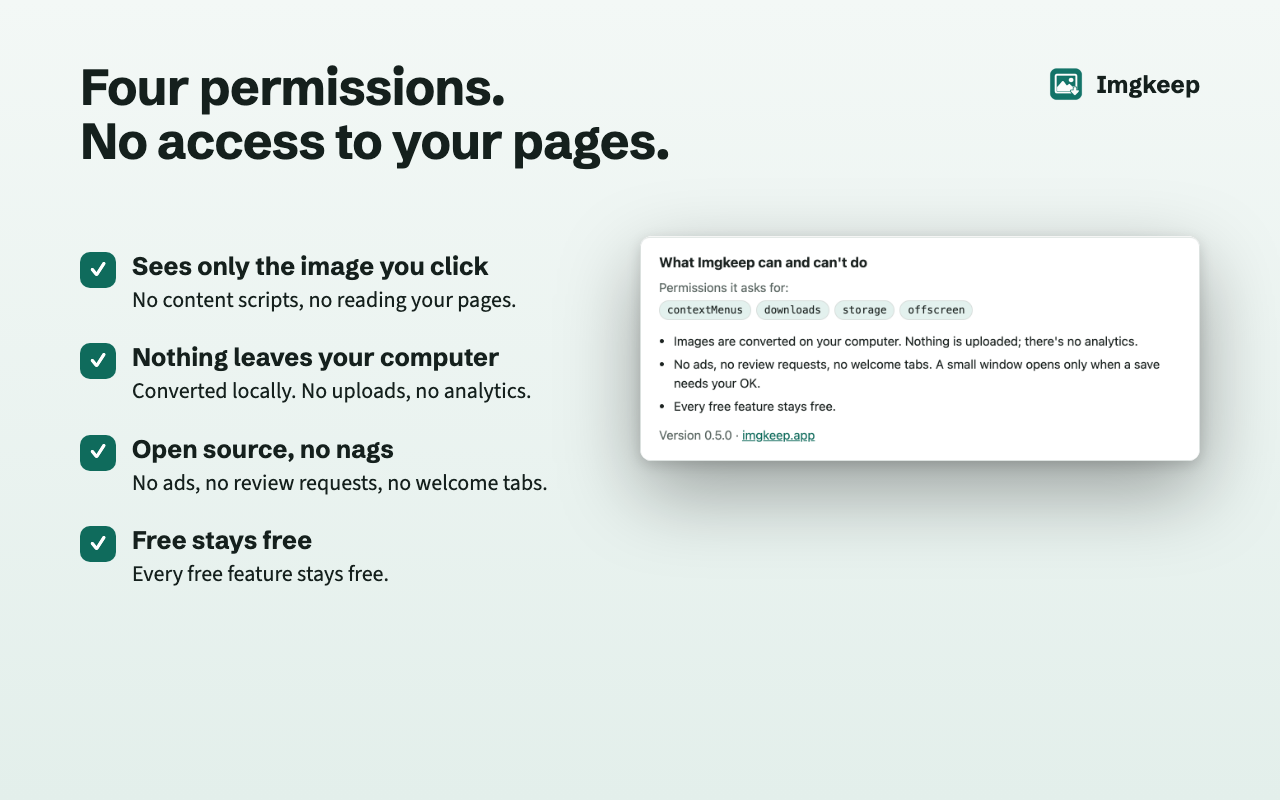
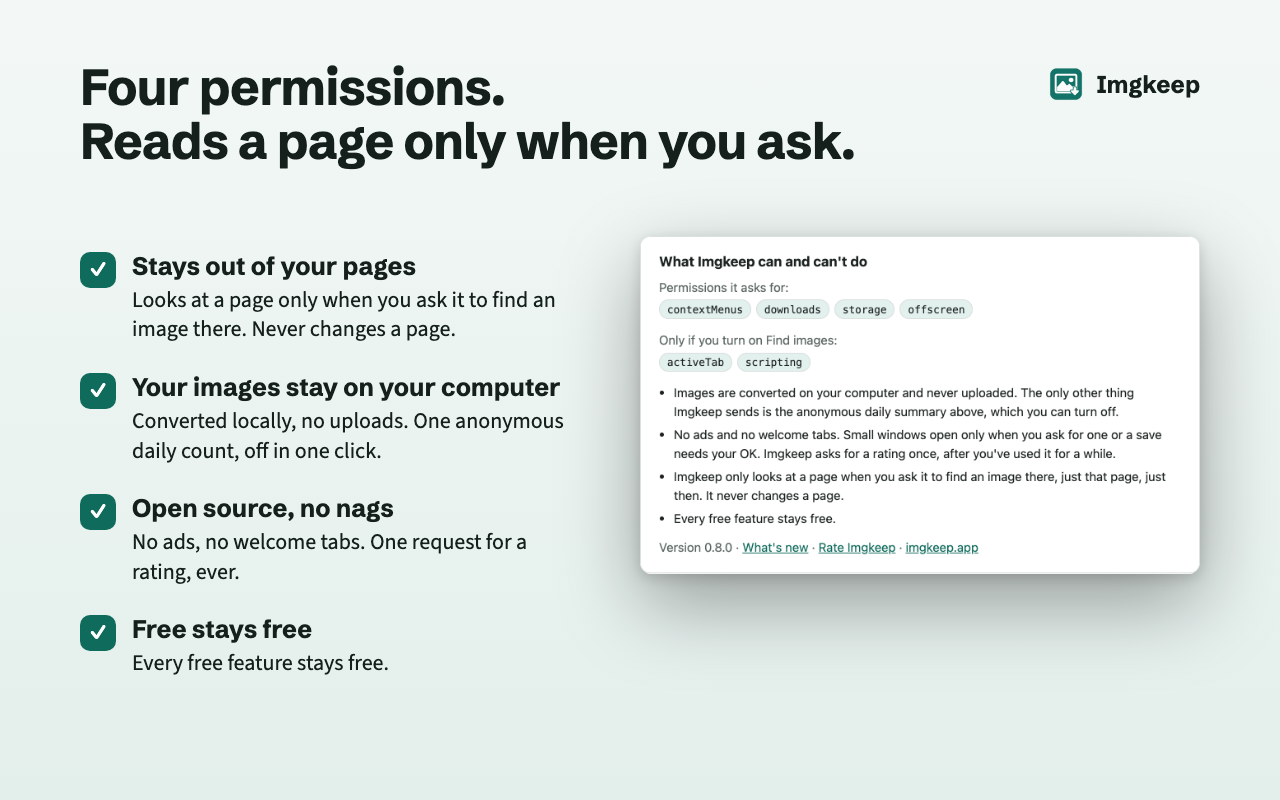
0.8.0 listing: summary and description lead with Find image (9 languages); screenshot 6; trust scene updated
- Summary: "…even ones sites hide." (all within 132 characters).
- Description: a second paragraph on Find image here replaces its bullet.
- Screenshot 6: Find image here on a made-up photo feed, with the real
  More options window. Screenshot 3 (trust) said "no access to your pages",
  "no analytics" and "no review requests": now matches the promises.

diff --git a/store/scenes.html b/store/scenes.html
@@ -169,13 +169,13 @@
 <!-- 3. Trust list -->
 <section class="scene" id="scene-3">
   <div class="head">
-    <h1>Four permissions.<br>No access to your pages.</h1>
+    <h1>Four permissions.<br>Reads a page only when you ask.</h1>
   </div>
   <div class="logo"><img src="../extension/icons/icon128.png" alt="">Imgkeep</div>
   <ul class="points" style="position:absolute; left:80px; top:250px; width:500px;">
-    <li><span class="check">✓</span><span><b>Sees only the image you click</b>No content scripts, no reading your pages.</span></li>
-    <li><span class="check">✓</span><span><b>Nothing leaves your computer</b>Converted locally. No uploads, no analytics.</span></li>
-    <li><span class="check">✓</span><span><b>Open source, no nags</b>No ads, no review requests, no welcome tabs.</span></li>
+    <li><span class="check">✓</span><span><b>Stays out of your pages</b>Looks at a page only when you ask it to find an image there. Never changes a page.</span></li>
+    <li><span class="check">✓</span><span><b>Your images stay on your computer</b>Converted locally, no uploads. One anonymous daily count, off in one click.</span></li>
+    <li><span class="check">✓</span><span><b>Open source, no nags</b>No ads, no welcome tabs. One request for a rating, ever.</span></li>
     <li><span class="check">✓</span><span><b>Free stays free</b>Every free feature stays free.</span></li>
   </ul>
   <div class="window" style="left:640px; top:236px; width:560px;">
@@ -215,6 +215,51 @@
   </div>
   <div class="logo"><img src="../extension/icons/icon128.png" alt="">Imgkeep</div>
   <img class="shot" src="_capture/gif.png" alt="" style="position:absolute; left:0; top:162px; width:1280px;">
+</section>
+
+<!-- 6. Find image here, on a site that covers its photos -->
+<section class="scene" id="scene-6">
+  <div class="head">
+    <h1>Right-click can't reach it?<br>Imgkeep can.</h1>
+    <p class="sub">On sites like Instagram and Pinterest, photos sit under another layer. Choose Find image here.</p>
+  </div>
+  <div class="logo"><img src="../extension/icons/icon128.png" alt="">Imgkeep</div>
+  <div class="browser" style="left:80px; top:250px; width:1120px; height:620px;">
+    <div class="bar"><div class="dots"><i></i><i></i><i></i></div><div class="url">photos.example.com/@studio.lume</div></div>
+    <div class="content" style="padding:28px 48px; font-family:system-ui,sans-serif;">
+      <div style="display:flex; align-items:center; gap:16px; margin-bottom:22px;">
+        <div style="width:58px; height:58px; border-radius:50%; background:linear-gradient(140deg,#e8a86b,#7b3f4f);"></div>
+        <div><b style="font-size:18px;">studio.lume</b><div style="color:#666; font-size:14px;">214 posts · ceramics &amp; light</div></div>
+      </div>
+      <div style="display:grid; grid-template-columns:repeat(4,1fr); gap:6px;">
+        <div style="height:230px; background:linear-gradient(150deg,#f2c79a,#c06b4e);"></div>
+        <div style="height:230px; background:radial-gradient(circle at 40% 38%,#fff3d6 0 16%,transparent 17%),linear-gradient(160deg,#9fb8c8,#3f5f78);"></div>
+        <div style="height:230px; background:linear-gradient(150deg,#c9d1a4,#6f7a3a);"></div>
+        <div style="height:230px; background:linear-gradient(150deg,#e3b7c2,#8a4f6a);"></div>
+        <div style="height:230px; background:linear-gradient(150deg,#d9c6a8,#7a6248);"></div>
+        <div style="height:230px; background:linear-gradient(150deg,#a9c4b2,#4f6b5a);"></div>
+        <div style="height:230px; background:linear-gradient(150deg,#f0d29a,#b5803c);"></div>
+        <div style="height:230px; background:linear-gradient(150deg,#b8b0d8,#5a4f8a);"></div>
+      </div>
+      <div class="menu" style="left:330px; top:170px;">
+        <div>Back</div>
+        <div>Forward</div>
+        <div>Reload</div>
+        <hr>
+        <div>Save as…</div>
+        <div>Print…</div>
+        <hr>
+        <div class="on"><span><img src="../extension/icons/icon16.png" alt="">Imgkeep: Find image here…</span></div>
+        <hr>
+        <div>Inspect</div>
+      </div>
+      <svg class="cursor" style="left:470px; top:388px;" viewBox="0 0 22 22" aria-hidden="true"><path d="M3 2l14 8-6 1.5L8 18z" fill="#111" stroke="#fff" stroke-width="1.5"/></svg>
+    </div>
+  </div>
+  <div class="window" style="left:770px; top:236px; width:400px;">
+    <div class="title"><div class="dots"><i></i><i></i><i></i></div>Imgkeep · More options</div>
+    <img class="shot" src="_capture/editor.png" alt="" style="width:400px;">
+  </div>
 </section>
 
 <!-- Promo tile 440×280 -->

diff --git a/store/listing.md b/store/listing.md
@@ -6,7 +6,7 @@ Live: https://chromewebstore.google.com/detail/fkclfgbmjaafglfifenonfcahfdmajbl
 
 - **Name** (from the manifest): Save image as PNG, JPG, WebP, GIF or PDF — Imgkeep
 - **Tagline:** Right format. Right folder. Nothing else.
-- **Summary** (≤132 chars, from the manifest): Right-click to save any image as PNG, JPG, WebP, GIF or PDF. Converts WebP and AVIF on your device. No personal data.
+- **Summary** (≤132 chars, from the manifest): Right-click to save any image as PNG, JPG, WebP, GIF or PDF, even ones sites hide. Converted on your device. No personal data.
 - **Category:** Tools
 - **Language:** English (default), plus he, es, pt_BR, de, fr, ja, hi, ar: name and summary come from the package; descriptions are in [listing-translations.md](listing-translations.md)
 - **Homepage:** https://imgkeep.app
@@ -20,6 +20,8 @@ v7 (for 0.6.1): the "Free, with no limits" bullet now says Imgkeep asks for a ra
 ```text
 Right-click any image and save it as PNG, JPG, WebP, GIF or PDF, or copy it as PNG. Imgkeep converts it on your computer and saves it where you want, every time.
 
+Works where right-click doesn't: on sites like Instagram and Pinterest, photos sit under another layer, so a right-click can't reach them. Choose Imgkeep: Find image here, and Imgkeep finds the photo for you, at its largest size. Off until you turn it on.
+
 Many sites now serve WebP and AVIF images that other apps won't open. Imgkeep turns them into files that open everywhere, in one right-click:
 
 Imgkeep: Save image as → PNG · JPG · WebP · GIF (keeps animation) · PDF · Original format · Copy as PNG · More options…
@@ -32,7 +34,6 @@ WHAT IT DOES
 • Copy as PNG: put the image on your clipboard as a real PNG, transparency kept, and paste it anywhere.
 • Resize: set a maximum width in Options and bigger images are scaled down to fit, keeping their shape. Smaller ones are never enlarged.
 • More options: preview the result with its real size in pixels and kilobytes, then pick format, width, quality, background and file name for just this image.
-• Find images that sites cover: on Instagram, Pinterest and similar sites, photos sit under another layer, so right-click can't reach them. Right-click and choose Imgkeep: Find image here. Off until you turn it on.
 • Saves to your folder: choose a folder once and every image goes there, or use Chrome's Downloads, or ask every time. Add subfolders like Imgkeep/{host}.
 • Your file names: build names from {name}, {host}, {date}, {time}, {w} and {h}, e.g. {name}-{w}x{h}.
 • Quality you control: JPG and WebP quality sliders, and the background colour for transparent images saved as JPG.
@@ -104,6 +105,7 @@ Certifications (tick all three):
 | `store/screenshot-3-trust.png` | 1280×800 | Screenshot 3: the trust list |
 | `store/screenshot-4-site-access.png` | 1280×800 | Screenshot 4: the site-permission window |
 | `store/screenshot-5-gif.png` | 1280×800 | Screenshot 5: GIF keeps animation |
+| `store/screenshot-6-find.png` | 1280×800 | Screenshot 6 (new in 0.8.0): Find image here on a photo feed. Drag it to second place, right after the menu: it's the differentiator. Uses a made-up site, not Instagram's interface (trademarks). |
 | `store/promo-tile-440x280.png` | 440×280 | Small promo tile |
 | `store/marquee-1400x560.png` | 1400×560 | Marquee promo tile (needed to be eligible for the homepage carousel) |
 | Promo video (YouTube link field) | https://youtu.be/QZfq5xLYdmo | Demo video, 28 s. Add after the marquee tile's review is done. |

diff --git a/store/edge-listing.md b/store/edge-listing.md
@@ -13,7 +13,7 @@ Same package as the Chrome Web Store (`dist/imgkeep-0.4.0.zip`). Submit through 
 
 ## Store listing (English)
 - **Display name:** comes from the manifest: Save image as PNG, JPG, WebP, GIF or PDF — Imgkeep
-- **Short description** (if asked): Right-click to save any image as PNG, JPG, WebP, GIF or PDF. Converts WebP and AVIF on your device. No personal data.
+- **Short description** (if asked): Right-click to save any image as PNG, JPG, WebP, GIF or PDF, even ones sites hide. Converted on your device. No personal data.
 - **Store logo (300×300):** `store/edge-logo-300.png`
 - **Small promotional tile (440×280):** `store/promo-tile-440x280.png`
 - **Screenshots (1280×800):** `store/screenshot-1-menu.png`, `store/screenshot-2-options.png`, `store/screenshot-3-trust.png`, `store/screenshot-4-site-access.png`
@@ -31,6 +31,8 @@ Same package as the Chrome Web Store (`dist/imgkeep-0.4.0.zip`). Submit through 
 ```text
 Right-click any image and save it as PNG, JPG, WebP, GIF or PDF, or copy it as PNG. Imgkeep converts it on your computer and saves it where you want, every time.
 
+Works where right-click doesn't: on sites like Instagram and Pinterest, photos sit under another layer, so a right-click can't reach them. Choose Imgkeep: Find image here, and Imgkeep finds the photo for you, at its largest size. Off until you turn it on.
+
 Many sites now serve WebP and AVIF images that other apps won't open. Imgkeep turns them into files that open everywhere, in one right-click:
 
 Imgkeep: Save image as → PNG · JPG · WebP · GIF (keeps animation) · PDF · Original format · Copy as PNG · More options…
@@ -43,7 +45,6 @@ WHAT IT DOES
 • Copy as PNG: put the image on your clipboard as a real PNG, transparency kept, and paste it anywhere.
 • Resize: set a maximum width in Options and bigger images are scaled down to fit, keeping their shape. Smaller ones are never enlarged.
 • More options: preview the result with its real size in pixels and kilobytes, then pick format, width, quality, background and file name for just this image.
-• Find images that sites cover: on Instagram, Pinterest and similar sites, photos sit under another layer, so right-click can't reach them. Right-click and choose Imgkeep: Find image here. Off until you turn it on.
 • Saves to your folder: choose a folder once and every image goes there, or use Edge's Downloads, or ask every time. Add subfolders like Imgkeep/{host}.
 • Your file names: build names from {name}, {host}, {date}, {time}, {w} and {h}, e.g. {name}-{w}x{h}.
 • Quality you control: JPG and WebP quality sliders, and the background colour for transparent images saved as JPG.
